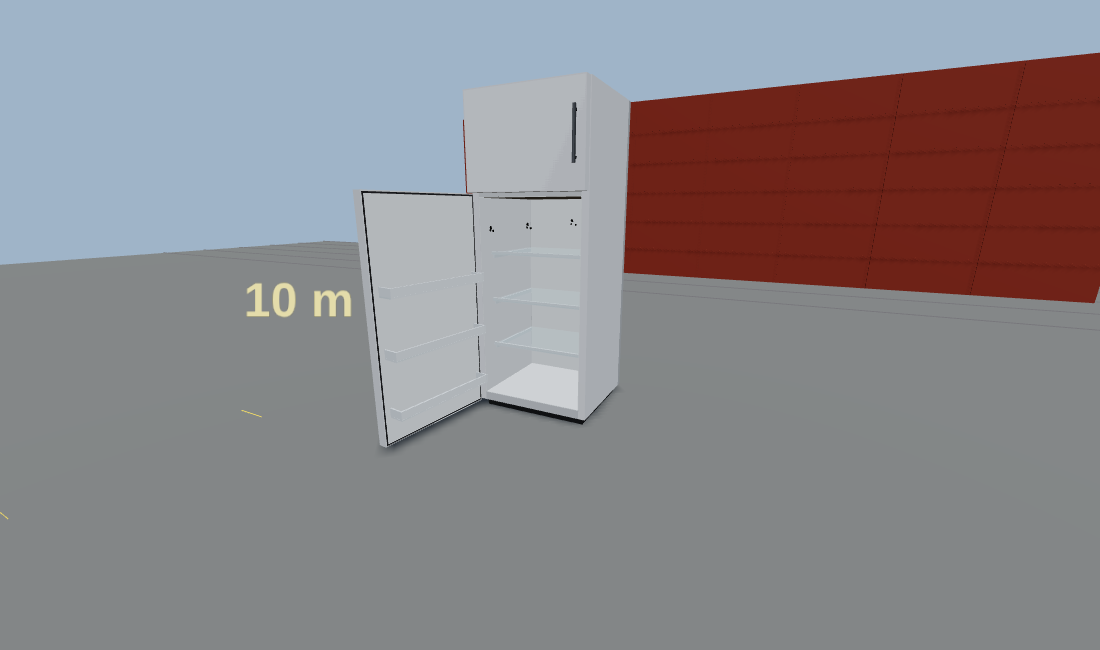
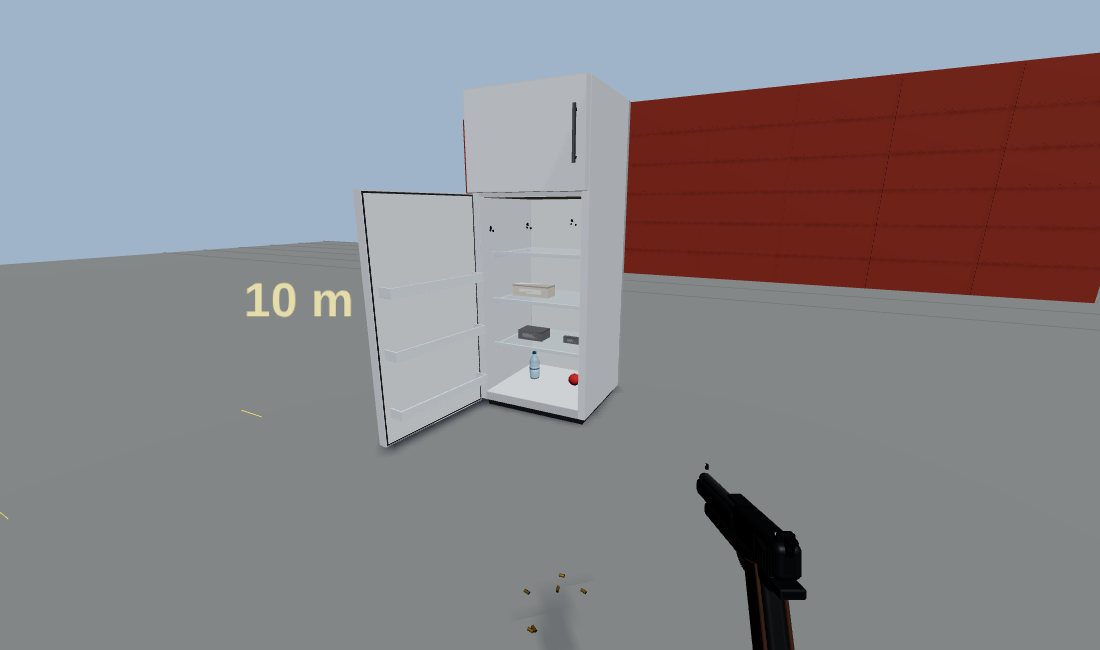
feat(site): área de itens no site, miniatura e conteúdo real dos recipientes dos móveis (T3.3b)
- interactables-test-area carrega também o ItemsArea e a geladeira, os armários e o guarda-roupa mostram itens reais (game-items-three, tamanho real) sorteados pelo catálogo goods
- site/catalog.mjs: exemplo items-test-area e família "Itens"; miniatura capturada com capture-thumbs --only=items-test-area
- site/Dockerfile: COPY de game-items-three e de examples/items-test-area (game-items, game-items-goods e tools/items-catalog já estavam)
- items-test-area/test.mjs confere a página no Chromium (relatório de contrato, 7 cenários, 351 itens à mostra, 23 modelados)
- fotos da interactables-test-area refeitas: a geladeira e o armário agora têm conteúdo

Claude-Session: https://claude.ai/code/session_01KT16pxL6se37z897yEhxbG

diff --git a/examples/interactables-test-area/src/entry.js b/examples/interactables-test-area/src/entry.js
@@ -1,28 +1,83 @@
 // Bundle entry (IIFE global `FurnitureArea`): the area wired to the two kit packages it needs, so a page only has to call
 // `FurnitureArea.loadInto(room)` or `room.loadModule(FurnitureArea.createFurnitureArea({ locale }))`.
 // The page also carries the weapons module (arms and accessories), so what the furniture does under fire can be tried with the real weapons: `loadInto` loads it too.
+// And the items module (`ItemsArea`: every item of the goods catalog at real size): the containers of the furniture hold real items, drawn by game-items-three at their real size.
+import { rng } from '@adatechnology/game-interactables'
 import * as GameInteractablesHousehold from '@adatechnology/game-interactables-household'
 import * as GameInteractablesThree from '@adatechnology/game-interactables-three'
+import { placeFinds } from '@adatechnology/game-items'
+import { createGoodsFindsProvider, createGoodsItems, goodsText } from '@adatechnology/game-items-goods'
+import { buildItem, createItemsTestModule } from '@adatechnology/game-items-three'
 import { createWeaponsTestModule } from '@adatechnology/game-weapons-three'
 import { createFurnitureArea as create } from './area.js'
 
-/** The module for `room.loadModule`. Pass your own copies of the packages through `options` to use them instead of the bundled ones. */
-export function createFurnitureArea(options = {}) {
-  return create({ GameInteractablesHousehold, GameInteractablesThree, ...options })
+/** The pool of the goods catalog each household piece draws its contents from (the key of the house pools, or a container of the catalog). */
+const CONTENT_KEYS = {
+  fridge: 'geladeira',
+  fridge_compact: 'geladeira',
+  kitchen_cabinet_base: 'pia',
+  kitchen_cabinet_wall: 'aereo',
+  pantry: 'despensa',
+  wardrobe: 'guarda',
+  dresser: 'comoda',
+  nightstand: 'criado',
+  bathroom_cabinet: 'bathroom_cabinet',
+  trash_bin: 'lixeira',
+  wheelie_bin: 'lixeira',
+  mailbox: 'correio',
+  cooler: 'cooler',
 }
 
-export { createWeaponsTestModule }
+/** The wear an item shows by how far it is through its shelf life. */
+const wearOf = (item, data) => (item.shelfLife && data?.ageDays !== undefined ? (data.ageDays >= item.shelfLife ? 2 : data.ageDays >= item.shelfLife * 0.5 ? 1 : 0) : 0)
+
+/**
+ * `fillContainers` for the furniture area: rolls what the piece holds with the goods catalog, puts the stacks in its slots and draws each as the real item (the model of the team
+ * where there is one), at the slot, in its real size. The same seed always fills the same.
+ */
+export function createItemContents(options = {}) {
+  const catalog = options.catalog ?? createGoodsItems()
+  const provider = createGoodsFindsProvider(catalog)
+  return (THREE, group, spec, type) => {
+    const key = CONTENT_KEYS[type]
+    if (!key) return
+    for (const container of spec.containers ?? []) {
+      const slots = container.slots.filter((slot) => !slot.part)
+      if (slots.length === 0) continue
+      const stacks = provider.findsFor({ place: 'house', container: key, key, state: 'normal', rng: rng(options.seed ?? 1), day: 0, footprint: 1 }) ?? []
+      const { contents } = placeFinds(stacks, slots, catalog)
+      contents.forEach((stack, index) => {
+        if (!stack) return
+        const item = catalog.get(stack.type)
+        const drawn = buildItem(THREE, item, { wear: wearOf(item, stack.data) })
+        const slot = slots[index]
+        drawn.root.position.set(slot.pos[0], slot.pos[1], slot.pos[2])
+        drawn.root.name = `contents_${container.id}_${index}`
+        drawn.root.userData.contents = { container: container.id, item: item.id, qty: stack.qty }
+        group.add(drawn.root)
+      })
+    }
+  }
+}
+
+/** The module for `room.loadModule`. Pass your own copies of the packages through `options` to use them instead of the bundled ones. */
+export function createFurnitureArea(options = {}) {
+  return create({ GameInteractablesHousehold, GameInteractablesThree, fillContainers: createItemContents(), ...options })
+}
+
+export { createWeaponsTestModule, createItemsTestModule }
 
 // the site copies the weapon thumbnails to site/dist/weapon-svg, next to the folder of each example page
 const SITE_THUMBNAIL_BASE = '../weapon-svg/'
 
 /**
- * Creates the module for the room's locale (`?lang=en` or pt-BR) and loads it, after the weapons module (the furniture bench stays the one the panel shows).
- * Returns the room's report of the furniture module, with the weapons module's report under `weapons`.
+ * Creates the module for the room's locale (`?lang=en` or pt-BR) and loads it, after the weapons and the items modules (the furniture bench stays the one the panel shows).
+ * Returns the room's report of the furniture module, with the weapons module's report under `weapons` and the items module's under `itemsArea`.
  */
 export function loadInto(room, options = {}) {
   const lang = options.locale ?? (new URLSearchParams(globalThis.location?.search ?? '').get('lang') === 'en' ? 'en' : 'pt-BR')
   const weapons = options.weapons === false ? undefined : room.loadModule(createWeaponsTestModule({ locale: lang, thumbnailBase: SITE_THUMBNAIL_BASE }))
+  const itemsArea = options.items === false ? undefined : room.loadModule(createItemsTestModule({ catalog: createGoodsItems(), translate: goodsText, locale: lang }))
   const report = room.loadModule(createFurnitureArea({ ...options, locale: lang }))
-  return weapons ? { ...report, weapons } : report
+  return { ...report, ...(weapons ? { weapons } : {}), ...(itemsArea ? { itemsArea } : {}) }
 }

diff --git a/examples/interactables-test-area/src/area.js b/examples/interactables-test-area/src/area.js
@@ -444,10 +444,11 @@ function analyse(hh, type, GT) {
 // The module
 // ---------------------------------------------------------------------------------------------------------------------------------------
 /**
- * @param {{ GameInteractablesHousehold: any, GameInteractablesThree: any, locale?: string }} options
+ * @param {{ GameInteractablesHousehold: any, GameInteractablesThree: any, fillContainers?: (THREE: any, group: any, spec: any, type: string) => void, locale?: string }} options
+ * `fillContainers` puts the contents of the containers of a piece of furniture in its group (the entry gives the one that draws them as real items).
  * @returns {import('@adatechnology/game-contracts').TestableModule<any>}
  */
-export function createFurnitureArea({ GameInteractablesHousehold: HHP, GameInteractablesThree: GT, locale: defaultLocale = 'en' }) {
+export function createFurnitureArea({ GameInteractablesHousehold: HHP, GameInteractablesThree: GT, fillContainers, locale: defaultLocale = 'en' }) {
   const isEn = (l) => (l ?? defaultLocale) === 'en'
   const households = {}
   const household = (loc) => {
@@ -492,6 +493,7 @@ export function createFurnitureArea({ GameInteractablesHousehold: HHP, GameInter
     // household ids can be kebab-case; the groups were named by `finish` with the original id
     res.group.name = type
     res.group.userData.furnitureType = type
+    fillContainers?.(THREE, res.group, spec, type)
     return res.group
   }
 
